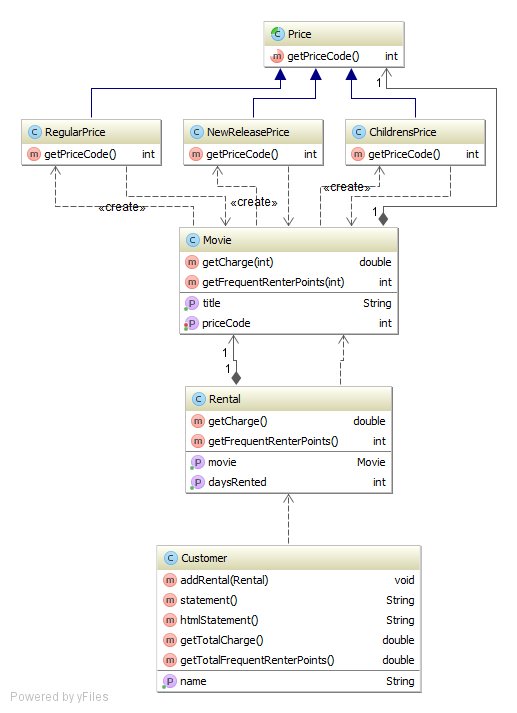
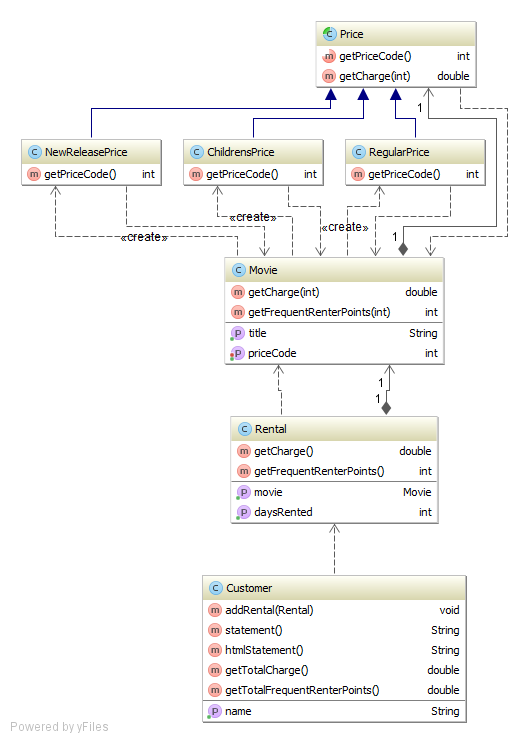
Step 6.5: Extract method Price.getCharge(int daysRented).

Changed region(s): [[0.0309, 0.0309, 0.9903, 0.7405], [0.2785, 0.7714, 0.8975, 0.9874], [0.0309, 0.9565, 0.2166, 0.9874]]

diff --git a/src/Movie.java b/src/Movie.java
@@ -35,23 +35,7 @@ public class Movie {
     }
 
     double getCharge(int daysRented) {
-        double result = 0;
-        switch (getPriceCode()) {
-            case REGULAR:
-                result += 2;
-                if (daysRented > 2)
-                    result += (daysRented - 2) * 1.5;
-                break;
-            case NEW_RELEASE:
-                result += daysRented * 3;
-                break;
-            case CHILDRENS:
-                result += 1.5;
-                if (daysRented > 3)
-                    result += (daysRented - 3) * 1.5;
-                break;
-        }
-        return result;
+        return price.getCharge(daysRented);
     }
 
     int getFrequentRenterPoints(int daysRented) {

diff --git a/src/Price.java b/src/Price.java
@@ -1,5 +1,25 @@
 abstract class Price {
     abstract int getPriceCode();
+
+    double getCharge(int daysRented) {
+        double result = 0;
+        switch (getPriceCode()) {
+            case Movie.REGULAR:
+                result += 2;
+                if (daysRented > 2)
+                    result += (daysRented - 2) * 1.5;
+                break;
+            case Movie.NEW_RELEASE:
+                result += daysRented * 3;
+                break;
+            case Movie.CHILDRENS:
+                result += 1.5;
+                if (daysRented > 3)
+                    result += (daysRented - 3) * 1.5;
+                break;
+        }
+        return result;
+    }
 }
 
 class ChildrensPrice extends Price {
